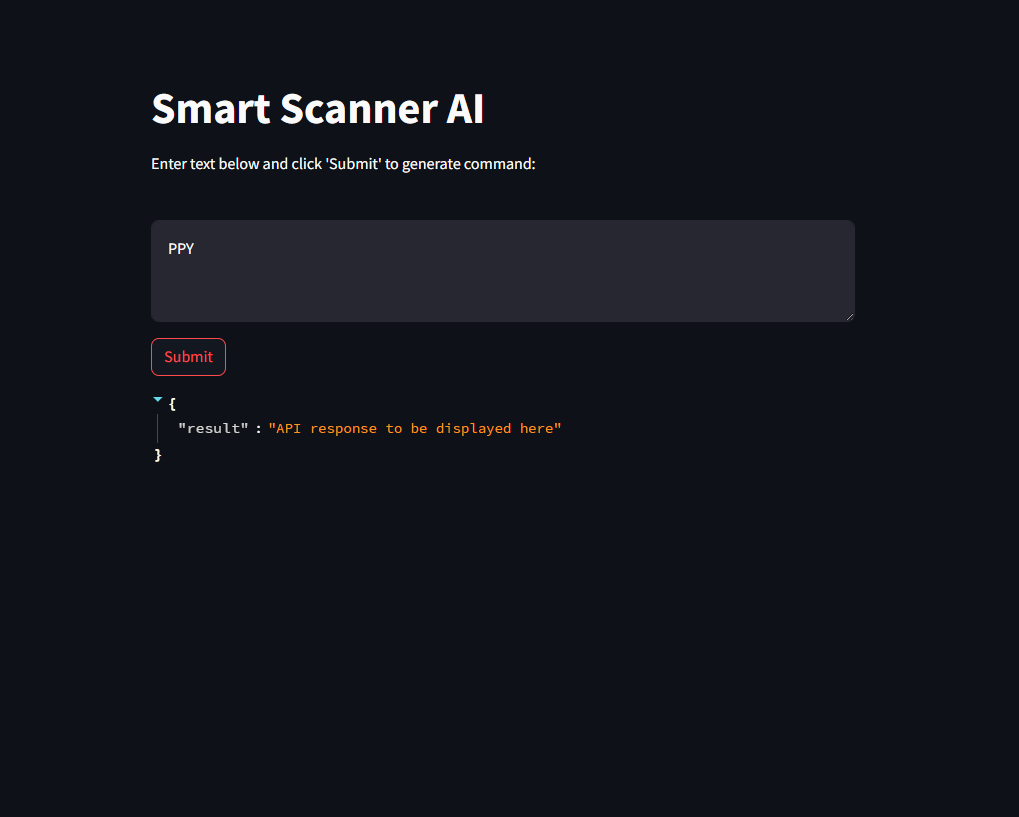
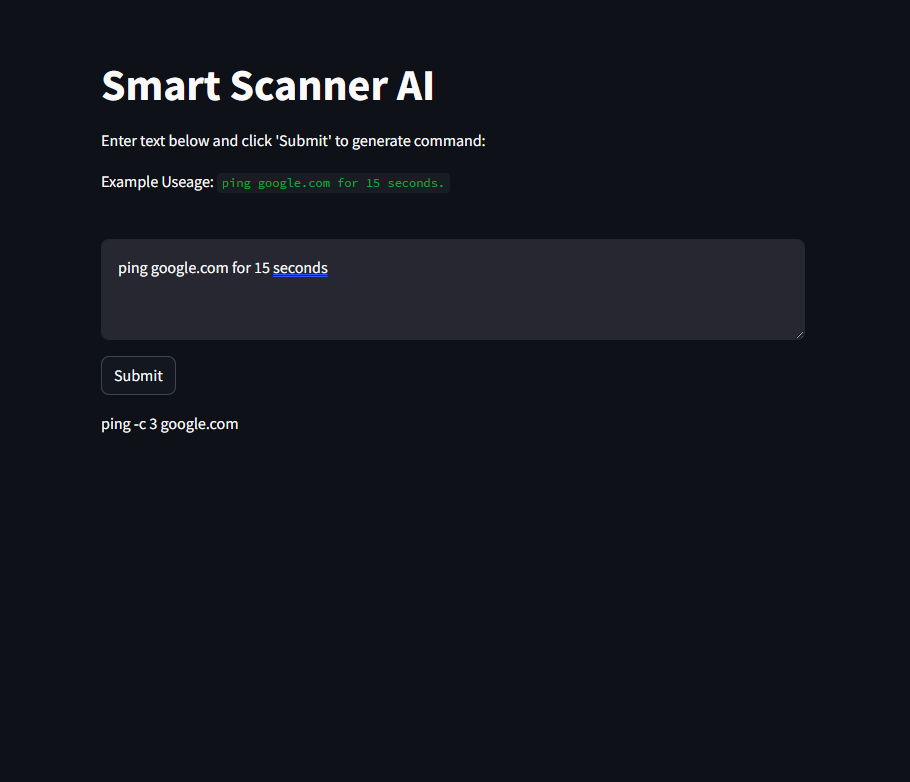
Working App with ping commands

Changed region(s): [[0.0923, 0.0921, 0.8923, 0.5524]]

diff --git a/app.py b/app.py
@@ -1,14 +1,26 @@
+import os 
+
 import streamlit as st
 from utils.api import call_gemini_api
-from utils.preprocessing import preprocess
+from utils.preprocessing import generate_prompt, to_markdown
+import google.generativeai as genai
 
+from dotenv import load_dotenv
+load_dotenv()
+
+gemimi_api_key = os.environ.get("GEMINI_API_KEY")
+if not gemimi_api_key:
+    raise Exception("Enter GEMINI_API_KEY in .env to continue")
+
+genai.configure(api_key=gemimi_api_key)
 # from transformers import pipeline
 
 # Streamlit application
 st.title("Smart Scanner AI")
-st.write("Enter text below and click 'Submit' to generate command:")
+st.write("Enter text below and click 'Submit' to generate command: ")
+st.write("Example Useage: ```Ping google.com for 15 seconds.```")
 
-text_input = st.text_area("", placeholder="Enter your text here")
+text_input = st.text_area("Write Here:", placeholder="Ping google.com for 15 seconds.")
 submit_button = st.button("Submit")
 
 # Loading indicator and progress bar
@@ -21,7 +33,7 @@ if submit_button:
         progress_bar.progress(0)
 
         # Preprocess text
-        preprocessed_text = preprocess(text_input)
+        preprocessed_text = generate_prompt(text_input)
 
         # Disable submit button and show progress bar
         progress_bar.empty()
@@ -33,5 +45,5 @@ if submit_button:
         # Display results
         progress_bar.empty()
         st.success("Processing complete!")
-        st.json(response)
+        st.write(response.text)
 

diff --git a/utils/preprocessing.py b/utils/preprocessing.py
@@ -1,6 +1,20 @@
+from IPython.display import Markdown
+import textwrap
+
+def generate_prompt(text):
+    text = text.lower() 
+
+    prompt = f'''
+Generate a ping command for the following task given in triple quotes, if the task is not possible with ping return 'Unable to Generate Command' text, set all the flags based on the information provided. Don't use flags that require admin privileges if possibe. Return the command no comments or explanation. 
+
+"""
+{text} 
+"""
+    '''
+
+    return prompt
 
 
-def preprocess(text):
-    # Perform necessary text cleaning, tokenization, etc.
-    text = text.lower()  # Example preprocessing step
-    return text
+def to_markdown(text):
+  text = text.replace('•', '  *')
+  return Markdown(textwrap.indent(text, '> ', predicate=lambda _: True))

diff --git a/utils/api.py b/utils/api.py
@@ -1,8 +1,9 @@
-
+import google.generativeai as genai
 
 # Load Gemini API client (replace with your actual API client code)
 def call_gemini_api(text):
-    # Authenticate, format data, make API call, and return results
-    # Placeholder for actual implementation
-    response = {"result": "API response to be displayed here"}
+
+    model = genai.GenerativeModel('gemini-pro')
+
+    response = model.generate_content(text)
     return response

diff --git a/README.md b/README.md
@@ -2,6 +2,19 @@
 Ai Scanner Application, generate and run commands assisted by AI.
 
 
+## useage
+```bash
+git clone https://github.com/ararchieves/AI-Scanner.git
+cd AI-Scanner
+
+pip install -r requirements.txt
+
+ren template.env .env
+## Add Keys in .env file
+
+streamlit run app.py
+```
+
 ## App Preview
 
 ![App Preview](media/app.png)
